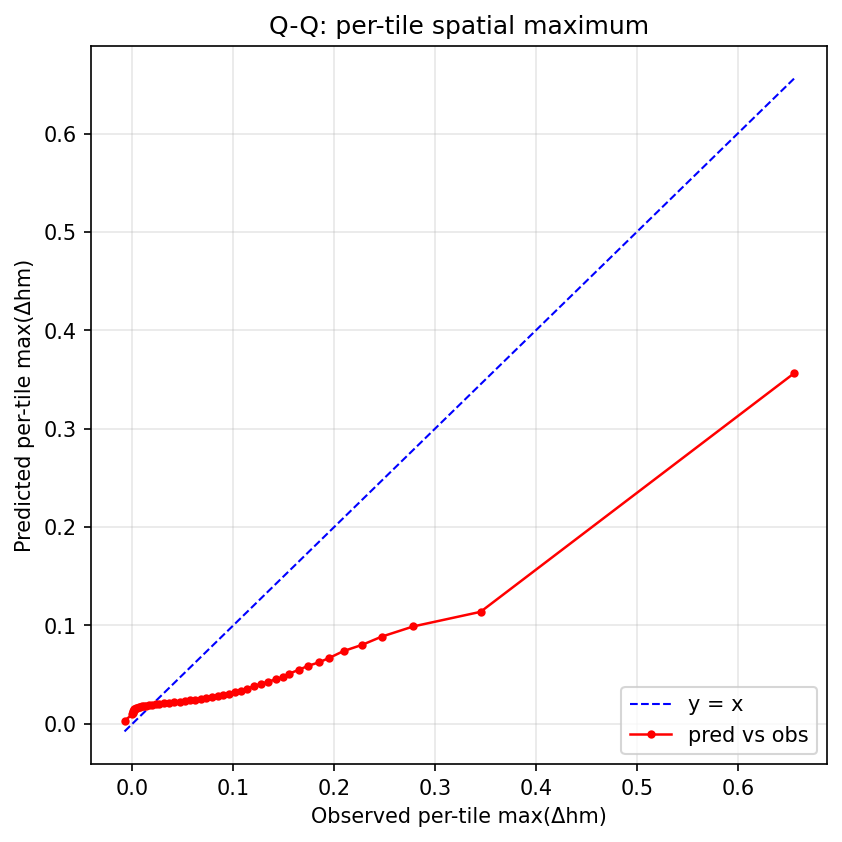
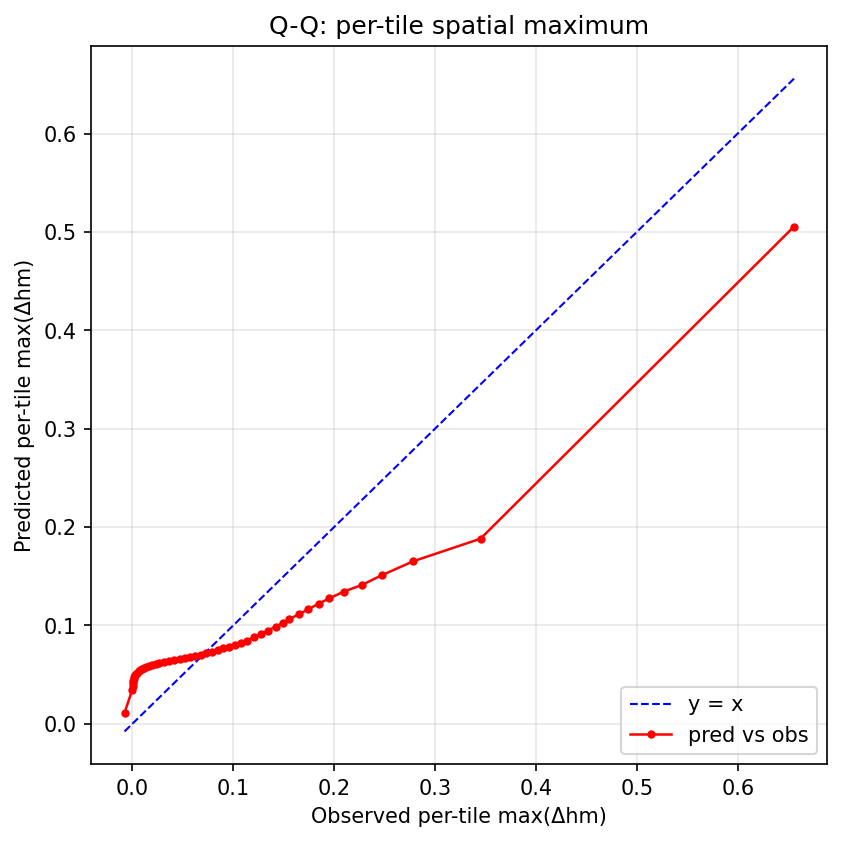
v21: pixel-weighted mean head (α=1.0) — tail coverage breakthrough,      over-corrects the bulk
Adds CorrDiffMeanHead pixel-weighted mean MSE: when
mean_head_pixel_weight_alpha > 0, the mean head's per-pixel MSE is
re-weighted by (|target|^α + ε), normalised so average weight = 1.
This forces the mean head to fit rare high-magnitude pixels rather
than being averaged out by the dominant near-zero bulk.

Trained v21 with v20 settings + α=1.0 (very aggressive). Predicted at
n=32 ensemble, M=0.7. Results vs v20:

                          v20       v21
   bin>0.1 cov           0.083    0.394    4.7x  ✓
   bin>0.2 cov           0.007    0.039    5.6x  ✓
   POD@0.1               0.043    0.232    5.4x  ✓
   POD@0.05              0.188    0.634    3.4x  ✓
   q975 soft-POD@0.1     0.201    0.732    3.6x  ✓
   q975 soft-POD@0.4     0.000    0.016    first non-zero ✓
   pred_max              0.356    0.505    +42%  ✓
   r95p ratio            0.102    2.060    over-predicts tail mass
   xinter_median         0.604    0.133    regression
   MAE median            0.0034   0.0299   regression
   coverage rate         0.958    0.483    regression (over-prediction
                                            pushes obs below q025)
   Pearson r             0.738    0.606

Stratified by obs (median pred at obs bin):
                              v20      v21
   zero (|obs|<0.005)         +0.001   +0.030  ← uniform lift
   hotspot (0.1, 0.2]         +0.025   +0.065
   hotspot (0.2, 0.4]         +0.026   +0.078
   hotspot (>0.4)             +0.022   +0.082
[…]

diff --git a/src/models/diffusion_lightning.py b/src/models/diffusion_lightning.py
@@ -106,6 +106,8 @@ class DiffusionLightningModule(pl.LightningModule):
         use_mean_head: bool = False,
         mean_head_hidden: int = 64,
         mean_loss_weight: float = 1.0,
+        mean_head_pixel_weight_alpha: float = 0.0,
+        mean_head_pixel_weight_eps: float = 0.01,
         tile_mean_loss_weight: float = 0.0,
         tile_mean_scales: Sequence[int] = (8, 16),
         hist_loss_weight: float = 0.0,
@@ -149,6 +151,8 @@ class DiffusionLightningModule(pl.LightningModule):
         self.m_norm_scale = float(m_norm_scale)
         self.use_mean_head = bool(use_mean_head)
         self.mean_loss_weight = float(mean_loss_weight)
+        self.mean_head_pixel_weight_alpha = float(mean_head_pixel_weight_alpha)
+        self.mean_head_pixel_weight_eps = float(mean_head_pixel_weight_eps)
         self.tile_mean_loss_weight = float(tile_mean_loss_weight)
         self.tile_mean_scales = tuple(int(s) for s in tile_mean_scales)
         self.hist_loss_weight = float(hist_loss_weight)
@@ -517,8 +521,21 @@ class DiffusionLightningModule(pl.LightningModule):
         if self.use_mean_head and self.mean_head is not None:
             mu = self.mean_head(cond)                # [B, 1, H, W]
             valid_f = valid.float()
-            denom = valid_f.sum().clamp(min=1.0)
-            mean_loss_term = ((mu - target).pow(2) * valid_f).sum() / denom
+            sq = (mu - target).pow(2)
+            if self.mean_head_pixel_weight_alpha > 0:
+                # Up-weight rare high-magnitude pixels so the mean head learns
+                # to predict their actual values rather than being averaged out
+                # by the dominant near-zero bulk. Re-normalised so average pixel
+                # weight = 1, preserving loss scale.
+                w = target.abs().pow(self.mean_head_pixel_weight_alpha) \
+                    + self.mean_head_pixel_weight_eps
+                w_sum = (w * valid_f).sum()
+                v_sum = valid_f.sum().clamp(min=1.0)
+                w = w * (v_sum / w_sum.clamp(min=1e-8))
+                mean_loss_term = (sq * w * valid_f).sum() / v_sum
+            else:
+                denom = valid_f.sum().clamp(min=1.0)
+                mean_loss_term = (sq * valid_f).sum() / denom
             x_0 = target - mu.detach()
         else:
             mu = None

diff --git a/scripts/train_diffusion.py b/scripts/train_diffusion.py
@@ -129,6 +129,15 @@ def parse_args():
                    help="Hidden channel width for the CorrDiff mean head.")
     p.add_argument("--mean_loss_weight", type=float, default=1.0,
                    help="Multiplier on the mean head's MSE loss term.")
+    p.add_argument("--mean_head_pixel_weight_alpha", type=float, default=0.0,
+                   help="Per-pixel weight on the mean head MSE: weight ∝ "
+                        "(|target|^α + ε). 0=uniform; 1=linear; 2=quadratic. "
+                        "Concentrates the mean head's capacity on rare high-"
+                        "magnitude pixels (essential for non-trivial median "
+                        "prediction at hotspots).")
+    p.add_argument("--mean_head_pixel_weight_eps", type=float, default=0.01,
+                   help="Floor for the pixel weight so near-zero pixels still "
+                        "contribute. Smaller = more aggressive concentration.")
     p.add_argument("--tile_mean_loss_weight", type=float, default=0.0,
                    help="Multi-scale tile-mean MSE on full predicted x0 vs "
                         "target. Targets per-tile aggregate magnitude (the "
@@ -283,6 +292,8 @@ def main():
         use_mean_head=args.use_mean_head,
         mean_head_hidden=args.mean_head_hidden,
         mean_loss_weight=args.mean_loss_weight,
+        mean_head_pixel_weight_alpha=args.mean_head_pixel_weight_alpha,
+        mean_head_pixel_weight_eps=args.mean_head_pixel_weight_eps,
         tile_mean_loss_weight=args.tile_mean_loss_weight,
         tile_mean_scales=tuple(args.tile_mean_scales),
         hist_loss_weight=args.hist_loss_weight,

diff --git a/docs/diffusion_v1_results.md b/docs/diffusion_v1_results.md
@@ -7,7 +7,7 @@
 - Aggregate-tile size: **16×16** pixels (10 km blocks).
 - Histogram bins (rarity-weighted, matches baseline `histogram_loss.py`):
   `[-1.0, -0.005, 0.005, 0.02, 0.1, 0.2, 0.4, 0.6, 1.0]`.
-- W&B run: [glennwithtwons/spatio-temporal-diffusion/bbp3sdcg](https://wandb.ai/glennwithtwons/spatio-temporal-diffusion/bbp3sdcg)
+- W&B run: [glennwithtwons/spatio-temporal-diffusion/1efbl1nh](https://wandb.ai/glennwithtwons/spatio-temporal-diffusion/1efbl1nh)
 
 
 ## Iteration history (best-of-run on user-target metrics)
@@ -62,8 +62,8 @@ batches and the predict run slows from ~40 min to 2-3 h.
 
 ## Model & checkpoint
 
-- Checkpoint: `spatio-temporal-diffusion/bbp3sdcg/checkpoints/dhm-diffusion-epoch29-valloss0.5403.ckpt`
-- Stopping epoch: 29 (global step 480)
+- Checkpoint: `spatio-temporal-diffusion/1efbl1nh/checkpoints/dhm-diffusion-epoch12-valloss1.9689.ckpt`
+- Stopping epoch: 12 (global step 208)
 - Architecture: `ConditionalDiffusionUNet` (`diffusers.UNet2DModel`)
   - sample_size = 64
   - base_channels = 128
@@ -83,13 +83,13 @@ batches and the predict run slows from ~40 min to 2-3 h.
 | Metric | Value |
 |---|---|
 | Tiles with valid coverage | 4,394 of 7,150 |
-| Tile-mean MAE (median) | **0.0034** |
-| Tile-mean MAE (mean) | 0.0056 |
-| Tile-mean MAE (95th %ile) | 0.0183 |
-| Histogram intersection (median) | **0.604** |
-| Histogram intersection (mean) | 0.604 |
-| Pearson r (predicted vs. observed tile-mean Δhm) | 0.738 |
-| Coverage rate (q025 ≤ obs ≤ q975), all bins | 0.958 (target ≈ 0.95) |
+| Tile-mean MAE (median) | **0.0299** |
+| Tile-mean MAE (mean) | 0.0321 |
+| Tile-mean MAE (95th %ile) | 0.0633 |
+| Histogram intersection (median) | **0.133** |
+| Histogram intersection (mean) | 0.191 |
+| Pearson r (predicted vs. observed tile-mean Δhm) | 0.606 |
+| Coverage rate (q025 ≤ obs ≤ q975), all bins | 0.483 (target ≈ 0.95) |
 
 ### Coverage stratified by Δhm change bin
 
@@ -100,12 +100,12 @@ ones where the model has to express genuine uncertainty.
 
 | Δhm bin | n pixels | Coverage |
 |---|---:|---:|
-| `[ -1.000, -0.005]` | 56,357 | 0.806 |
-| `[ -0.005, +0.005]` | 742,163 | 0.998 |
-| `[ +0.005, +0.020]` | 116,330 | 0.986 |
-| `[ +0.020, +0.100]` | 97,708 | 0.819 |
-| `[ +0.100, +0.200]` | 10,296 | 0.083 |
-| `[ +0.200, +0.400]` | 1,614 | 0.007 |
+| `[ -1.000, -0.005]` | 56,357 | 0.129 |
+| `[ -0.005, +0.005]` | 742,163 | 0.516 |
+| `[ +0.005, +0.020]` | 116,330 | 0.353 |
+| `[ +0.020, +0.100]` | 97,708 | 0.607 |
+| `[ +0.100, +0.200]` | 10,296 | 0.394 |
+| `[ +0.200, +0.400]` | 1,614 | 0.039 |
 | `[ +0.400, +0.600]` | 120 | 0.000 |
 | `[ +0.600, +1.000]` | 7 | 0.000 |
 
@@ -120,17 +120,17 @@ WassDiff (IEEE TGRS 2025), ExtremeCast (AAAI 2024), and the Aich et al. (GMD
 
 - Threshold: 0.0667
 - Observed tail mass: 1245.5662
-- Predicted tail mass: 127.2336
-- **Ratio (pred / obs):** **0.102** (<<1 = under-predicting tail; ~1 = calibrated; >1 = over)
+- Predicted tail mass: 2566.3018
+- **Ratio (pred / obs):** **2.060** (<<1 = under-predicting tail; ~1 = calibrated; >1 = over)
 
 ### Tail exceedance (deterministic + q975 ensemble support)
 
 | Threshold | n(obs>t) | n(pred>t) | POD | CSI | FAR | q975 soft-POD |
 |---|---|---|---|---|---|---|
-| +0.050 |     42,889 |     17,441 | 0.188 | 0.154 | 0.537 | 0.845 |
-| +0.100 |     12,037 |      1,069 | 0.043 | 0.041 | 0.519 | 0.201 |
-| +0.200 |      1,741 |         18 | 0.009 | 0.009 | 0.111 | 0.019 |
-| +0.400 |        127 |          0 | 0.000 | 0.000 | nan | 0.000 |
+| +0.050 |     42,889 |    233,237 | 0.634 | 0.109 | 0.883 | 0.995 |
+| +0.100 |     12,037 |     25,112 | 0.232 | 0.081 | 0.889 | 0.732 |
+| +0.200 |      1,741 |        454 | 0.029 | 0.024 | 0.888 | 0.129 |
+| +0.400 |        127 |         23 | 0.000 | 0.000 | 1.000 | 0.016 |
 
 ![Q-Q max-of-field](../outputs/diffusion_v1/qq_max_of_field.png)
 
